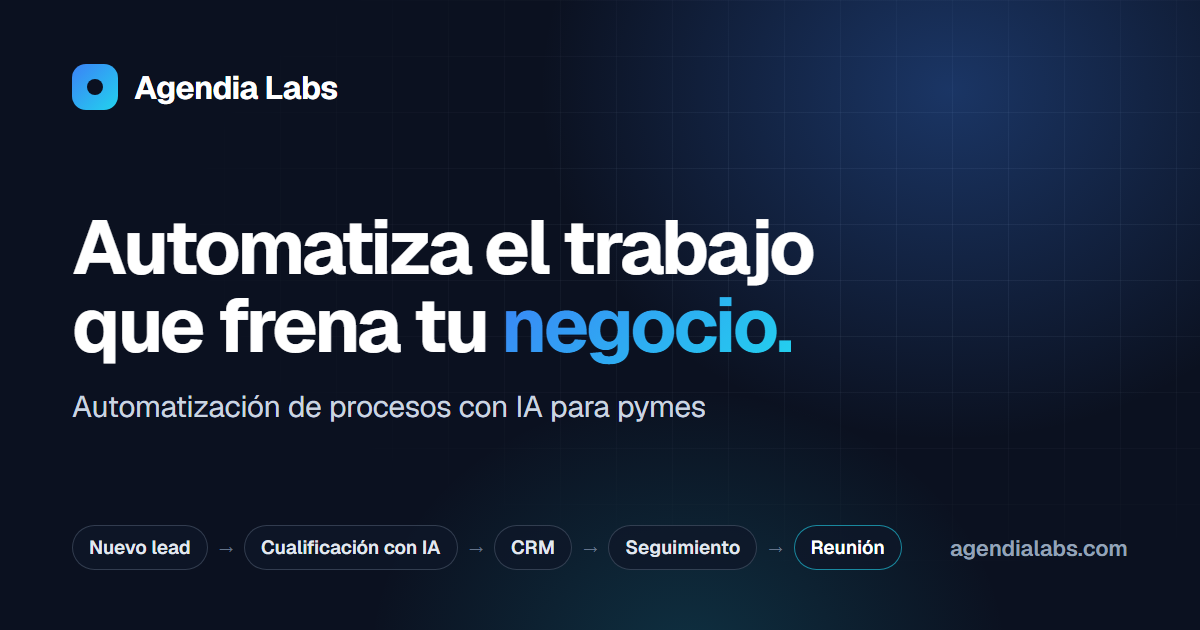
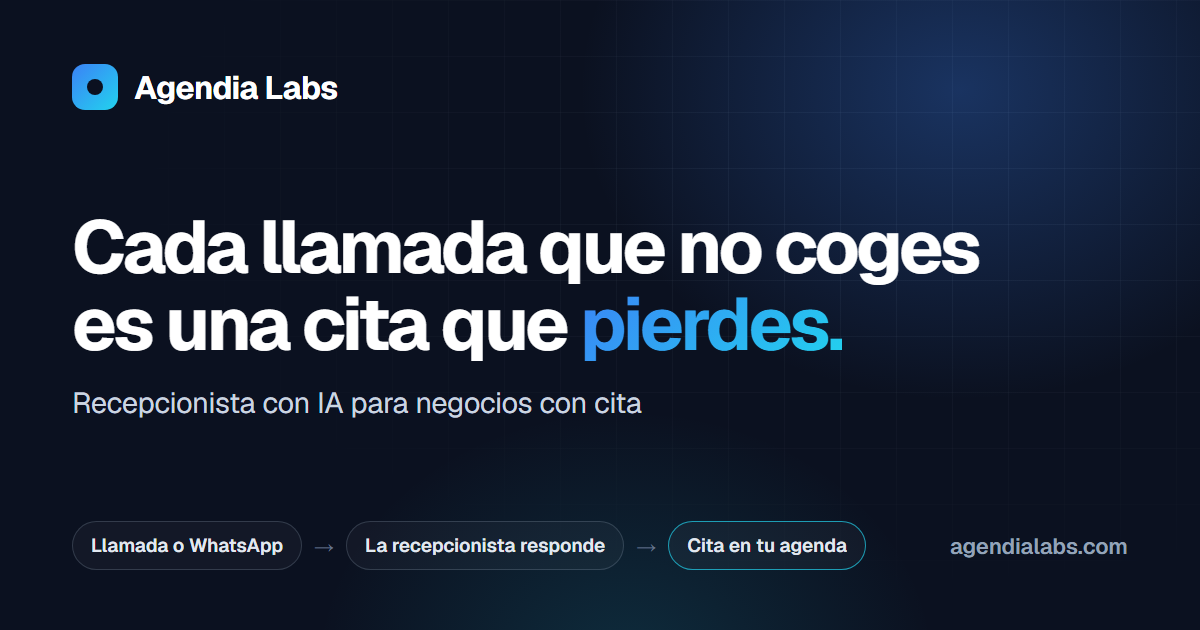
Fill in booking and contact details, drop TODO markers and case study
- Embed the Google Calendar appointment schedule in the booking
  section, in the page's language (hl=es / hl=en).
- Booking calls are now 15 minutes, matching the schedule.
- Set the contact phone (call and WhatsApp links), the legal update
  date and the form recipient (Gmail).
- Answer the remaining FAQ entries: supported calendar, keeping the
  phone number, set-up time and no minimum term.
- Privacy policy: keep data of non-customers for up to 12 months.
- Leave out empty legal details instead of showing TODO markers; the
  owner name falls back to "Agendia Labs" until it is set.
- Remove the case study block, its copy and the SHOW_CASE_STUDY flag.
- Regenerate the Open Graph images with the new headline.

diff --git a/src/i18n/es.ts b/src/i18n/es.ts
@@ -17,7 +17,7 @@ export const es: Messages = {
     knowsAbout: ['Recepcionista con IA', 'Atención de llamadas', 'Reservas por WhatsApp', 'Gestión de citas', 'SEO local'],
   },
   common: {
-    book: 'Reserva 20 minutos',
+    book: 'Reserva 15 minutos',
     step: 'Paso',
     home: 'Inicio de Agendia Labs',
     mainNav: 'Principal',
@@ -35,7 +35,7 @@ export const es: Messages = {
     lead: 'Una recepcionista con IA que contesta llamadas y WhatsApp a cualquier hora y da citas en tu agenda. Tú sigues trabajando.',
     sectors: 'Para talleres, clínicas veterinarias, fisioterapia y cualquier negocio que trabaje con cita.',
     demoCta: 'Llama y pruébala',
-    note: 'Sin compromiso · Llamada de 20 minutos',
+    note: 'Sin compromiso · Llamada de 15 minutos',
     preview: {
       label: 'Ejemplo: una llamada fuera de horario',
       call: { title: 'Llamada atendida', detail: '21:47 · Quiere cita esta semana' },
@@ -157,13 +157,7 @@ export const es: Messages = {
       title: 'Presencia digital',
       text: 'Web, ficha de Google y SEO local, para que te encuentren cuando buscan un negocio como el tuyo cerca.',
     },
-    note: 'Cada negocio es distinto. Te recomendamos el plan en una llamada de 20 minutos.',
-  },
-  caseStudy: {
-    eyebrow: 'Un caso',
-    title: 'Taller en Getafe — web y recepcionista de voz',
-    // TODO: escribir el caso cuando el cliente dé permiso. Sin cifras.
-    text: 'TODO',
+    note: 'Cada negocio es distinto. Te recomendamos el plan en una llamada de 15 minutos.',
   },
   faq: {
     title: 'Preguntas frecuentes',
@@ -171,31 +165,39 @@ export const es: Messages = {
     items: [
       {
         q: '¿Suena a robot?',
-        a: 'Habla con una voz natural, pero es una IA y no se hace pasar por una persona. Lo mejor es que la escuches tú: en la llamada de 20 minutos te la enseñamos.',
+        a: 'Habla con una voz natural, pero es una IA y no se hace pasar por una persona. Lo mejor es que la escuches tú: en la llamada de 15 minutos te la enseñamos.',
       },
       {
         q: '¿Qué pasa si no sabe responder?',
         a: 'No se inventa la respuesta. Te pasa la llamada o te envía un aviso con los datos del cliente y lo que necesita, para que le contestes tú.',
       },
-      // TODO: con qué agendas funciona.
-      { q: '¿Funciona con mi agenda actual?', a: null },
-      // TODO: si se mantiene el número del negocio (desvío de llamadas, número nuevo...).
-      { q: '¿Tengo que cambiar de número?', a: null },
-      // TODO: plazo real de puesta en marcha.
-      { q: '¿Cuánto tarda en estar lista?', a: null },
+      {
+        q: '¿Funciona con mi agenda actual?',
+        a: 'Ahora mismo trabajamos con Google Calendar. Si usas otra agenda o un programa de tu sector, cuéntanoslo en la llamada y vemos si se puede conectar.',
+      },
+      {
+        q: '¿Tengo que cambiar de número?',
+        a: 'No. Puedes mantener tu número y desviar las llamadas a la recepcionista (por ejemplo, cuando no contestas o cuando comunica), o usar un número nuevo solo para ella. Tú eliges.',
+      },
+      {
+        q: '¿Cuánto tarda en estar lista?',
+        a: 'Depende de cada negocio, pero cuenta con un mínimo de una semana. En la llamada de 15 minutos te damos un plazo concreto.',
+      },
       {
         q: '¿Qué pasa con los datos de mis clientes?',
         a: 'Se tratan conforme al RGPD y solo se usan para atender a tus clientes y gestionar sus citas. En la llamada te contamos dónde se guardan y quién tiene acceso.',
       },
-      // TODO: condiciones de permanencia y baja.
-      { q: '¿Hay permanencia?', a: null },
+      {
+        q: '¿Hay permanencia?',
+        a: 'No. El servicio es mensual y puedes darte de baja cuando quieras, avisando con 30 días de antelación.',
+      },
     ],
   },
   booking: {
     title: 'Descubre cuántas citas estás perdiendo.',
-    lead: 'Elige un hueco de 20 minutos. Vemos cómo te llegan hoy las llamadas y los mensajes, y te decimos qué plan encaja con tu negocio.',
-    note: 'Sin compromiso · Llamada de 20 minutos',
-    calendarTitle: 'Calendario para reservar una llamada de 20 minutos con Agendia Labs',
+    lead: 'Elige un hueco de 15 minutos. Vemos cómo te llegan hoy las llamadas y los mensajes, y te decimos qué plan encaja con tu negocio.',
+    note: 'Sin compromiso · Llamada de 15 minutos',
+    calendarTitle: 'Calendario para reservar una llamada de 15 minutos con Agendia Labs',
     formToggle: '¿Prefieres que te escribamos?',
     contactLine: '¿Prefieres hablar ya? Llámanos al {phone} o escríbenos por {whatsapp}.',
   },
@@ -311,8 +313,7 @@ export const es: Messages = {
           {
             heading: 'Cuánto tiempo los guardamos',
             blocks: [
-              // TODO: plazo de conservación si no llega a ser cliente.
-              'Guardamos tus datos el tiempo necesario para atender tu solicitud. Si no llegas a ser cliente, los borramos en un plazo máximo de {todo}. Si eres cliente, los guardamos mientras dure la relación y, después, durante los plazos que marque la ley.',
+              'Guardamos tus datos el tiempo necesario para atender tu solicitud. Si no llegas a ser cliente, los borramos en un plazo máximo de 12 meses. Si eres cliente, los guardamos mientras dure la relación y, después, durante los plazos que marque la ley.',
             ],
           },
           {

diff --git a/src/i18n/en.ts b/src/i18n/en.ts
@@ -17,7 +17,7 @@ export const en: Messages = {
     knowsAbout: ['AI receptionist', 'Call answering', 'WhatsApp booking', 'Appointment scheduling', 'Local SEO'],
   },
   common: {
-    book: 'Book 20 minutes',
+    book: 'Book 15 minutes',
     step: 'Step',
     home: 'Agendia Labs home',
     mainNav: 'Main',
@@ -35,7 +35,7 @@ export const en: Messages = {
     lead: 'An AI receptionist that answers calls and WhatsApp at any hour and books appointments into your calendar. You keep working.',
     sectors: 'For garages, vet clinics, physiotherapy and any business that works by appointment.',
     demoCta: 'Call and try it',
-    note: 'No commitment · 20-minute call',
+    note: 'No commitment · 15-minute call',
     preview: {
       label: 'Example: a call after hours',
       call: { title: 'Call answered', detail: '21:47 · Wants an appointment this week' },
@@ -157,13 +157,7 @@ export const en: Messages = {
       title: 'Online presence',
       text: 'Website, Google Business Profile and local SEO, so people find you when they search for a business like yours nearby.',
     },
-    note: 'Every business is different. We’ll recommend a plan on a 20-minute call.',
-  },
-  caseStudy: {
-    eyebrow: 'A case study',
-    title: 'Garage in Getafe — website and voice receptionist',
-    // TODO: write the case once the client gives permission. No figures.
-    text: 'TODO',
+    note: 'Every business is different. We’ll recommend a plan on a 15-minute call.',
   },
   faq: {
     title: 'Frequently asked questions',
@@ -171,31 +165,39 @@ export const en: Messages = {
     items: [
       {
         q: 'Does it sound like a robot?',
-        a: 'It speaks with a natural voice, but it’s an AI and doesn’t pretend to be a person. The best way to judge is to hear it yourself: we’ll show it to you on the 20-minute call.',
+        a: 'It speaks with a natural voice, but it’s an AI and doesn’t pretend to be a person. The best way to judge is to hear it yourself: we’ll show it to you on the 15-minute call.',
       },
       {
         q: 'What happens if it doesn’t know the answer?',
         a: 'It doesn’t make things up. It puts the call through to you or sends you an alert with the customer’s details and what they need, so you can reply yourself.',
       },
-      // TODO: which calendars it works with.
-      { q: 'Does it work with my current calendar?', a: null },
-      // TODO: whether the business keeps its number (call forwarding, new number...).
-      { q: 'Do I need to change my phone number?', a: null },
-      // TODO: real set-up time.
-      { q: 'How long does it take to set up?', a: null },
+      {
+        q: 'Does it work with my current calendar?',
+        a: 'Right now we work with Google Calendar. If you use another calendar or software specific to your sector, tell us on the call and we’ll see whether it can be connected.',
+      },
+      {
+        q: 'Do I need to change my phone number?',
+        a: 'No. You can keep your number and forward calls to the receptionist (for example, when you don’t answer or the line is busy), or use a new number just for it. It’s your choice.',
+      },
+      {
+        q: 'How long does it take to set up?',
+        a: 'It depends on the business, but allow at least a week. We’ll give you a specific timeframe on the 15-minute call.',
+      },
       {
         q: 'What happens to my customers’ data?',
         a: 'It’s handled in line with the GDPR and only used to look after your customers and manage their appointments. On the call we’ll explain where it’s stored and who has access.',
       },
-      // TODO: minimum term and cancellation terms.
-      { q: 'Is there a minimum contract?', a: null },
+      {
+        q: 'Is there a minimum contract?',
+        a: 'No. The service is monthly and you can cancel whenever you like, with 30 days’ notice.',
+      },
     ],
   },
   booking: {
     title: 'Find out how many appointments you’re missing.',
-    lead: 'Pick a 20-minute slot. We’ll look at how calls and messages reach you today and tell you which plan fits your business.',
-    note: 'No commitment · 20-minute call',
-    calendarTitle: 'Calendar to book a 20-minute call with Agendia Labs',
+    lead: 'Pick a 15-minute slot. We’ll look at how calls and messages reach you today and tell you which plan fits your business.',
+    note: 'No commitment · 15-minute call',
+    calendarTitle: 'Calendar to book a 15-minute call with Agendia Labs',
     formToggle: 'Prefer us to email you?',
     contactLine: 'Rather talk now? Call us on {phone} or message us on {whatsapp}.',
   },
@@ -311,8 +313,7 @@ export const en: Messages = {
           {
             heading: 'How long we keep it',
             blocks: [
-              // TODO: retention period for people who don't become customers.
-              'We keep your data for as long as we need to deal with your request. If you don’t become a customer, we delete it within {todo} at most. If you do, we keep it for as long as the relationship lasts and then for the periods required by law.',
+              'We keep your data for as long as we need to deal with your request. If you don’t become a customer, we delete it within 12 months at most. If you do, we keep it for as long as the relationship lasts and then for the periods required by law.',
             ],
           },
           {

diff --git a/src/render/sections/legal.ts b/src/render/sections/legal.ts
@@ -1,18 +1,16 @@
 import { CONTACT_PHONE, FORM_PROVIDER, LEGAL_OWNER, LEGAL_UPDATED } from '../../content/config.ts';
 import { localePath, type PageKey } from '../../site.ts';
-import { orTodo, telHref } from '../components.ts';
+import { ownerName, telHref } from '../components.ts';
 import type { RenderContext } from '../context.ts';
 import { fill, html, type HtmlValue } from '../html.ts';
 import { icon } from '../icon.ts';
 
 function identity({ t, site }: RenderContext) {
   const i = t.legal.identity;
-  const rows: [string, HtmlValue][] = [
-    [i.owner, orTodo(LEGAL_OWNER.name)],
-    [i.taxId, orTodo(LEGAL_OWNER.taxId)],
-    [i.address, orTodo(LEGAL_OWNER.address)],
-    [i.email, html`<a href="mailto:${site.email}">${site.email}</a>`],
-  ];
+  const rows: [string, HtmlValue][] = [[i.owner, ownerName()]];
+  if (LEGAL_OWNER.taxId) rows.push([i.taxId, LEGAL_OWNER.taxId]);
+  if (LEGAL_OWNER.address) rows.push([i.address, LEGAL_OWNER.address]);
+  rows.push([i.email, html`<a href="mailto:${site.email}">${site.email}</a>`]);
   if (CONTACT_PHONE) rows.push([i.phone, html`<a href="${telHref(CONTACT_PHONE)}">${CONTACT_PHONE}</a>`]);
   return html`<dl class="legal__identity">${rows.map(([term, value]) => html`<div><dt>${term}</dt><dd>${value}</dd></div>`)}</dl>`;
 }
@@ -25,18 +23,16 @@ export function legalPage(ctx: RenderContext, page: PageKey) {
   const copy = t.legal.pages[page];
   const slots = {
     email: html`<a href="mailto:${site.email}">${site.email}</a>`,
-    formProvider: orTodo(FORM_PROVIDER),
+    formProvider: FORM_PROVIDER,
     privacyLink: html`<a href="${localePath(site, locale, 'privacy')}">${t.legal.pages.privacy.title.toLocaleLowerCase(locale)}</a>`,
     aepd: html`<a href="https://www.aepd.es" rel="noopener">www.aepd.es</a>`,
-    todo: orTodo(''),
   };
-  const updated = LEGAL_UPDATED ? formatDate(locale, LEGAL_UPDATED) : orTodo('');
   return html`
 <main id="main" class="legal">
   <div class="container legal__inner">
     <a href="${localePath(site, locale)}" class="legal__back">${icon('arrow-left')}${t.legal.back}</a>
     <h1 class="legal__title">${copy.title}</h1>
-    <p class="legal__updated">${fill(t.legal.updated, { date: updated })}</p>
+    ${LEGAL_UPDATED && html`<p class="legal__updated">${fill(t.legal.updated, { date: formatDate(locale, LEGAL_UPDATED) })}</p>`}
     ${copy.sections.map(
       section => html`
     <section class="legal__section">

diff --git a/src/content/config.ts b/src/content/config.ts
@@ -4,25 +4,23 @@
  */
 
 /** Google Calendar appointment schedule URL. Empty hides the calendar and shows the contact form instead. */
-export const CALENDAR_URL: string = '';
+export const CALENDAR_URL: string =
+  'https://calendar.google.com/calendar/appointments/schedules/AcZssZ3ZrIeI6Ub9SUcDUvofy5kq78PVc3S96_dO_OvkM2j9qXUupAMHV8QTUzazf_1PMcU7iNrxU1ri';
 
 /** Demo receptionist number, as it should be shown, e.g. '+34 910 000 000'. Empty hides the "call and try it" button. */
 export const DEMO_PHONE: string = '';
 
-/** Shows the case study block. Keep it off until the client has approved it. */
-export const SHOW_CASE_STUDY: boolean = false;
-
 /** Contact number, as it should be shown, e.g. '+34 600 000 000'. Used for the call and WhatsApp links. Empty hides them. */
-export const CONTACT_PHONE: string = '';
+export const CONTACT_PHONE: string = '+34 607 075 548';
 
 /**
  * Website owner, required in the legal notice by Spanish law (LSSI art. 10) and shown as data controller
- * in the privacy policy and next to the form. Empty fields show as "TODO" on the page.
+ * in the privacy policy and next to the form. Empty fields are left out; without a name, "Agendia Labs" is shown.
  */
 export const LEGAL_OWNER: { name: string; taxId: string; address: string } = { name: '', taxId: '', address: '' };
 
 /** Date the legal notice and privacy policy were last changed, as YYYY-MM-DD. */
-export const LEGAL_UPDATED: string = '';
+export const LEGAL_UPDATED: string = '2026-11-23';
 
 /** Service that receives the contact form (e.g. 'Formspree'), listed as a recipient in the privacy policy. */
-export const FORM_PROVIDER: string = '';
+export const FORM_PROVIDER: string = 'Gmail (Google)';

diff --git a/src/render/components.ts b/src/render/components.ts
@@ -1,4 +1,4 @@
-import { CALENDAR_URL, DEMO_PHONE } from '../content/config.ts';
+import { CALENDAR_URL, DEMO_PHONE, LEGAL_OWNER } from '../content/config.ts';
 import { SECTIONS } from '../content/catalog.ts';
 import { html, type HtmlValue, type SafeHtml } from './html.ts';
 import { icon } from './icon.ts';
@@ -22,8 +22,8 @@ export const telHref = (phone: string) => `tel:${phone.replace(/[^\d+]/g, '')}`;
 
 export const whatsappHref = (phone: string) => `https://wa.me/${phone.replace(/\D/g, '')}`;
 
-/** A legal detail still to be filled in shows as a highlighted TODO, so it can't go unnoticed. */
-export const orTodo = (value: string): HtmlValue => value || html`<mark class="todo">TODO</mark>`;
+/** Name shown as website owner and data controller; the brand stands in until the legal name is set. */
+export const ownerName = () => LEGAL_OWNER.name || 'Agendia Labs';
 
 export function demoCallLink(label: string, className: string): SafeHtml | '' {
   if (!DEMO_PHONE) return '';

diff --git a/src/render/page.ts b/src/render/page.ts
@@ -3,7 +3,6 @@ import { absoluteUrl, DEFAULT_LOCALE, LOCALES, pageRoute, type Locale, type Page
 import type { RenderContext } from './context.ts';
 import { html, jsonScript } from './html.ts';
 import { booking } from './sections/booking.ts';
-import { caseStudy } from './sections/case-study.ts';
 import { faq } from './sections/faq.ts';
 import { footer, mobileBar } from './sections/footer.ts';
 import { header, pageHeader } from './sections/header.ts';
@@ -19,7 +18,7 @@ const answeredFaq = (t: Messages) => t.faq.items.filter((item): item is { q: str
 
 const faqSection = (ctx: RenderContext) => faq({ site: ctx.site, t: { faq: { ...ctx.t.faq, items: answeredFaq(ctx.t) } } });
 
-const MAIN_SECTIONS = [hero, problem, how, sectors, plans, caseStudy, faqSection, booking];
+const MAIN_SECTIONS = [hero, problem, how, sectors, plans, faqSection, booking];
 
 const ogImage = (ctx: RenderContext) => absoluteUrl(ctx.site, `og-image-${ctx.locale}.png`);
 

diff --git a/src/render/sections/contact.ts b/src/render/sections/contact.ts
@@ -1,6 +1,5 @@
-import { LEGAL_OWNER } from '../../content/config.ts';
 import { localePath } from '../../site.ts';
-import { orTodo } from '../components.ts';
+import { ownerName } from '../components.ts';
 import type { RenderContext } from '../context.ts';
 import { fill, html } from '../html.ts';
 import { icon } from '../icon.ts';
@@ -61,7 +60,7 @@ export function contactForm({ t, site, locale }: RenderContext) {
         <p class="form-error" role="alert" hidden data-form-error></p>
         <button type="submit" class="btn btn--primary btn--lg btn--block" data-form-submit>${t.client.form.submit}</button>
         <p class="contact-form__privacy">${fill(f.privacy, {
-          owner: orTodo(LEGAL_OWNER.name),
+          owner: ownerName(),
           link: html`<a href="${localePath(site, locale, 'privacy')}">${f.privacyLink}</a>`,
         })}</p>
       </form>

diff --git a/src/i18n/types.ts b/src/i18n/types.ts
@@ -28,8 +28,8 @@ export interface FaqEntry {
 }
 
 /**
- * A paragraph, or a list when it is an array. Placeholders: `{email}`, `{formProvider}`, `{privacyLink}`,
- * `{aepd}` (link to the Spanish data protection authority) and `{todo}` (a highlighted gap still to fill in).
+ * A paragraph, or a list when it is an array. Placeholders: `{email}`, `{formProvider}`, `{privacyLink}`
+ * and `{aepd}` (link to the Spanish data protection authority).
  */
 export type LegalBlock = string | string[];
 
@@ -103,11 +103,6 @@ export interface Messages {
     items: Record<PlanKey, { title: string; audience: string; features: string[] }>;
     extra: { badge: string; title: string; text: string };
     note: string;
-  };
-  caseStudy: {
-    eyebrow: string;
-    title: string;
-    text: string;
   };
   faq: {
     title: string;

diff --git a/src/render/sections/booking.ts b/src/render/sections/booking.ts
@@ -28,7 +28,7 @@ export function booking(ctx: RenderContext) {
     ${CALENDAR_URL
       ? html`
     <div class="booking__calendar">
-      <iframe src="${CALENDAR_URL}?gv=true" title="${b.calendarTitle}" width="100%" height="650" loading="lazy" class="booking__iframe"></iframe>
+      <iframe src="${CALENDAR_URL}?gv=true&hl=${ctx.locale}" title="${b.calendarTitle}" width="100%" height="650" loading="lazy" class="booking__iframe"></iframe>
     </div>
     <details class="booking__alt">
       <summary class="booking__toggle">${b.formToggle}</summary>

diff --git a/src/styles/sections/legal.css b/src/styles/sections/legal.css
@@ -87,13 +87,3 @@
   margin: 0;
   overflow-wrap: anywhere;
 }
-
-/* Legal details still to be filled in. */
-.todo {
-  padding: 1px 6px;
-  border-radius: 4px;
-  background: #fef3c7;
-  font-family: var(--font-mono);
-  font-size: 0.85em;
-  color: #92400e;
-}

diff --git a/src/styles/main.css b/src/styles/main.css
@@ -9,7 +9,6 @@
 @import './sections/how.css';
 @import './sections/sectors.css';
 @import './sections/plans.css';
-@import './sections/case-study.css';
 @import './sections/faq.css';
 @import './sections/contact.css';
 @import './sections/booking.css';

diff --git a/src/content/catalog.ts b/src/content/catalog.ts
@@ -9,7 +9,6 @@ export const SECTIONS = {
   how: 'como-funciona',
   sectors: 'sectores',
   plans: 'planes',
-  caseStudy: 'caso',
   faq: 'faq',
   booking: 'reservar',
 } as const;
